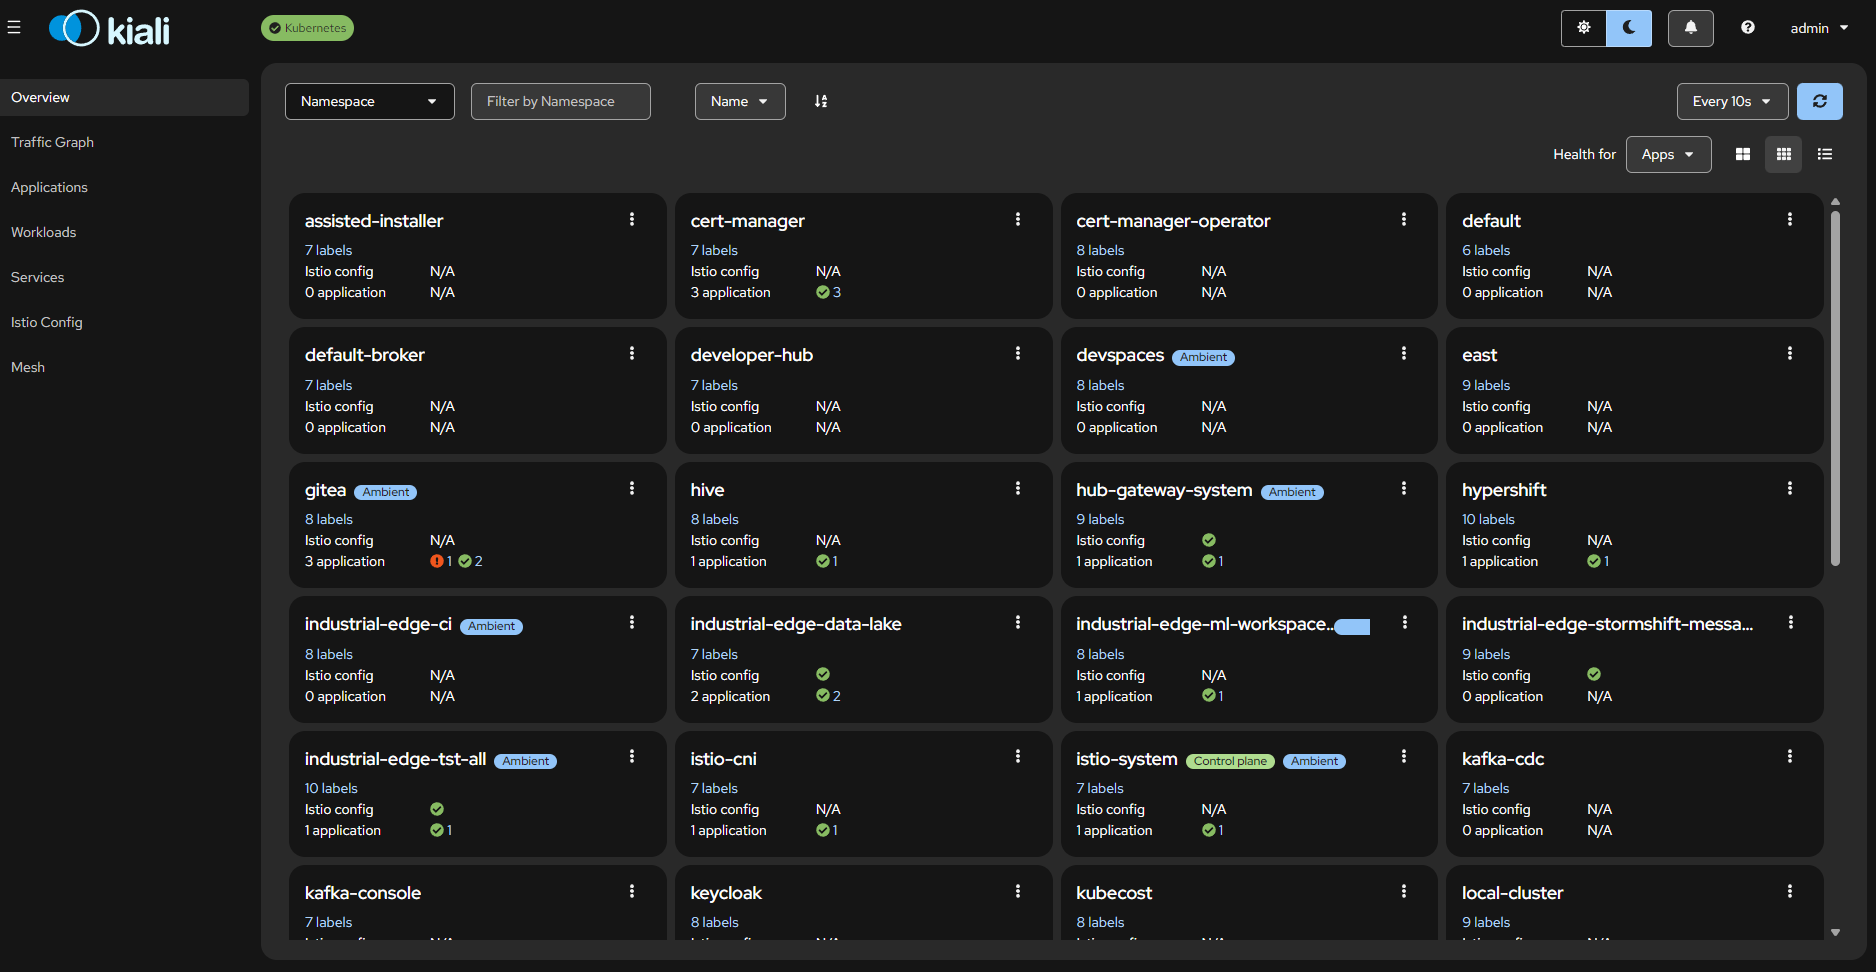
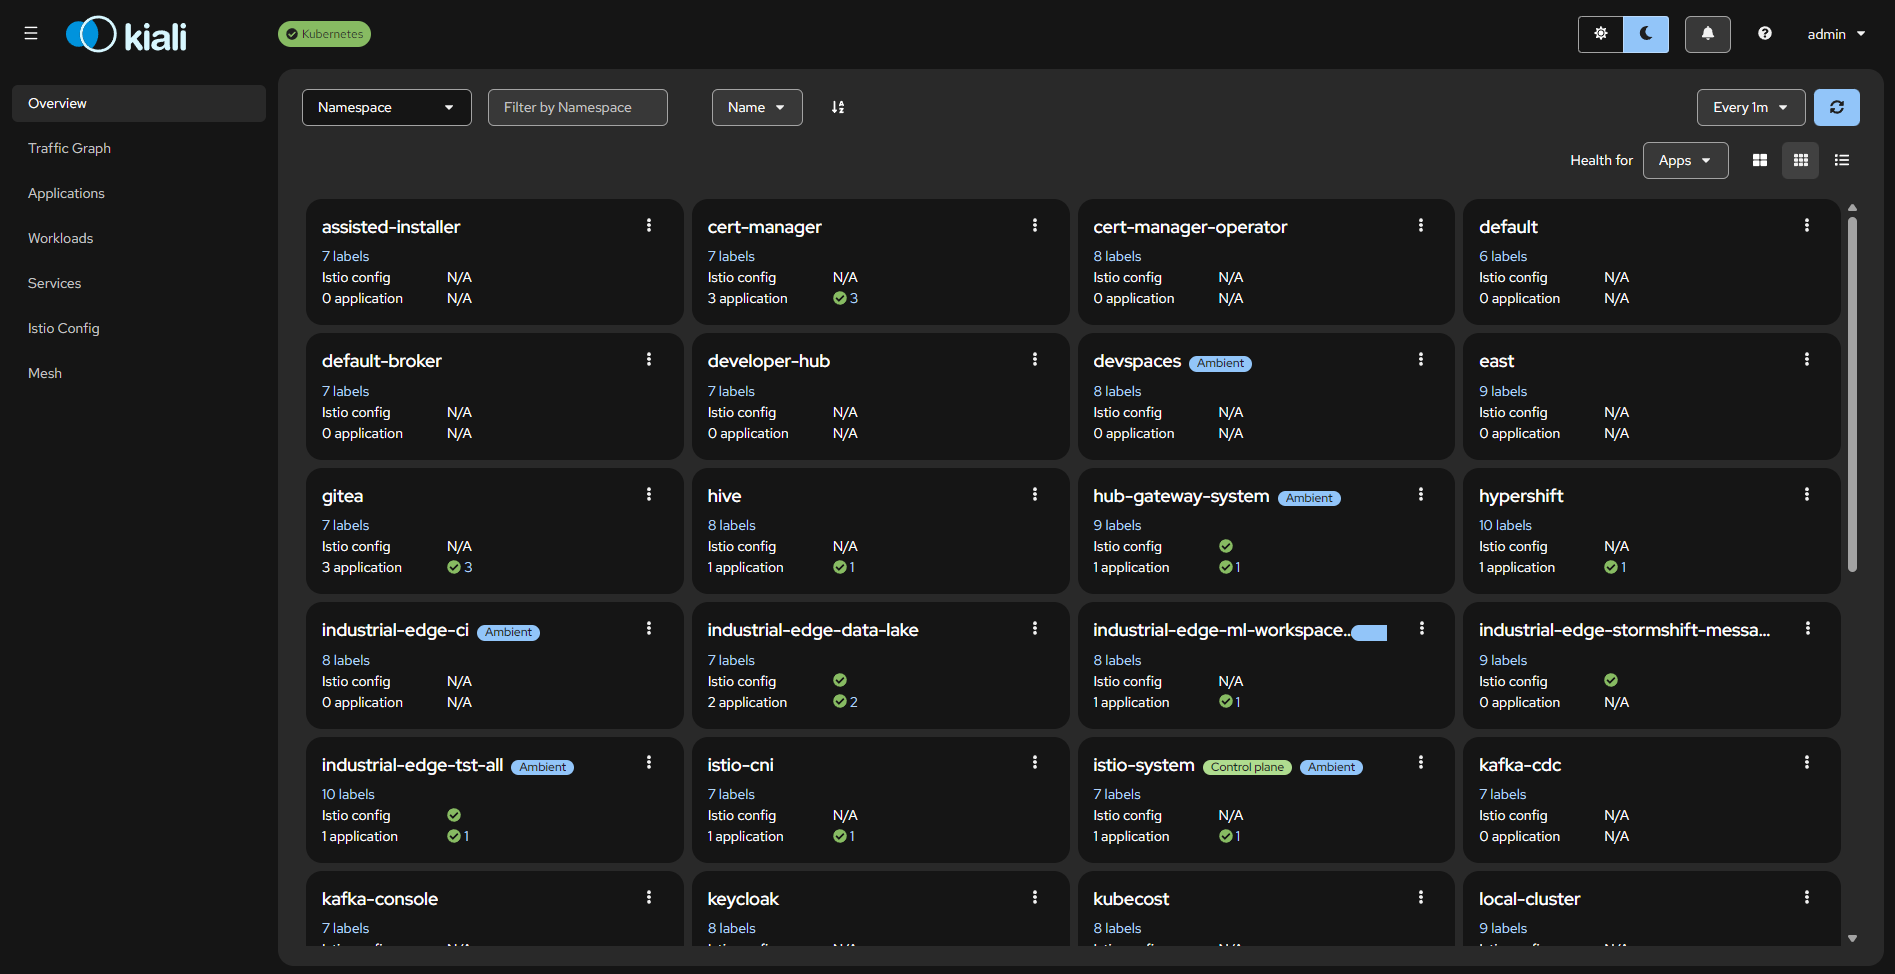
feat: RHDH catalog ConfigMaps, docs operator discovery, image zoom
Split Developer Hub app-config into catalog/auth ConfigMaps in Backstage CR,
add catalog-users ConfigMap and repo catalog/users.yaml for GitHub URLs.
Document operator discovery per product, Grafana extras, mobile-safe footer
notes in skill; ignore helm scratch YAML. Docs: click-to-zoom images,
reading path, dedupe Kafka screenshot from Service Interconnect.

diff --git a/docs/_includes/head_custom.html b/docs/_includes/head_custom.html
@@ -50,3 +50,62 @@ document.addEventListener('DOMContentLoaded', function() {
   content.insertAdjacentElement('afterend', toc);
 });
 </script>
+<script defer>
+document.addEventListener('DOMContentLoaded', function() {
+  var content = document.querySelector('.main-content');
+  if (!content) return;
+
+  var dlg = document.createElement('dialog');
+  dlg.className = 'doc-img-lightbox';
+  dlg.setAttribute('aria-label', 'Enlarged screenshot');
+  dlg.innerHTML =
+    '<button type="button" class="doc-img-lightbox-close" aria-label="Close">&times;</button>' +
+    '<img alt="" decoding="async">';
+  document.body.appendChild(dlg);
+
+  var lbImg = dlg.querySelector('img');
+  var closeBtn = dlg.querySelector('.doc-img-lightbox-close');
+
+  function openLb(src, alt) {
+    lbImg.src = src;
+    lbImg.alt = alt || 'Screenshot';
+    dlg.showModal();
+    document.body.style.overflow = 'hidden';
+  }
+
+  function closeLb() {
+    dlg.close();
+    document.body.style.overflow = '';
+    lbImg.removeAttribute('src');
+  }
+
+  closeBtn.addEventListener('click', closeLb);
+  dlg.addEventListener('click', function(e) {
+    if (e.target === dlg) closeLb();
+  });
+  document.addEventListener('keydown', function(e) {
+    if (e.key === 'Escape' && dlg.open) closeLb();
+  });
+
+  content.querySelectorAll('img').forEach(function(img) {
+    var src = img.currentSrc || img.src;
+    if (!src || src.indexOf('data:') === 0) return;
+    img.classList.add('doc-img-zoomable');
+    if (!img.title) img.title = 'Click to enlarge';
+    var altText = (img.getAttribute('alt') || '').trim();
+    img.setAttribute('aria-label', (altText ? altText + ' — ' : '') + 'Click to enlarge');
+    img.addEventListener('click', function(ev) {
+      ev.preventDefault();
+      openLb(img.currentSrc || img.src, img.alt);
+    });
+    img.addEventListener('keydown', function(ev) {
+      if (ev.key === 'Enter' || ev.key === ' ') {
+        ev.preventDefault();
+        openLb(img.currentSrc || img.src, img.alt);
+      }
+    });
+    img.tabIndex = 0;
+    img.setAttribute('role', 'button');
+  });
+});
+</script>

diff --git a/docs/products/index.md b/docs/products/index.md
@@ -7,7 +7,9 @@ has_children: true
 
 # Red Hat Products
 
-This platform composes multiple Red Hat operators and patterns. Use the child pages for installation notes, CRDs, and documentation links.
+This platform composes multiple Red Hat operators and patterns. Each child page answers three questions for operators who arrived via **[Getting Started](../getting-started.md)**: what ships here, **what signals tell an operator it has reconciled**, and **how workloads join inventory** (CRDs vs annotations vs explicit registrations).
+
+Keep **[Discover workloads consistently](../architecture.md#components-on-the-hub-vs-spokes)** in mind as context — namespaces rarely manage ACM fleets directly; charts declare APIs operators reconcile against Git.
 
 ## Overview
 
@@ -24,3 +26,27 @@ This platform composes multiple Red Hat operators and patterns. Use the child pa
 | [AMQ Streams](amq-streams.md) | Kafka for telemetry pipelines | `components/industrial-edge-*/` |
 | [Apache Camel / Camel K](camel-k.md) | Integrations (MQTT, S3, Kafka) | `components/camel-k/` |
 | [OpenShift Pipelines](pipelines.md) | Tekton CI/CD for Industrial Edge | `components/industrial-edge-pipelines/` |
+
+## Operator discovery — annotations & registrations at a glance
+
+Most visibility comes from **CRDs**, but namespaces carry mesh/policy hints when controllers reconcile selectively:
+
+| Product | Where workloads surface | Typical annotation / label / CR binding |
+| ------- | ------------------------- | ------------------------------------------ |
+| [ACM](acm.md) | Fleet hub inventory | **`ManagedCluster`**, **`Placement`** — spokes inherit ACM labels during import (no Git annotation magic). |
+| [Developer Hub](developer-hub.md) | Catalog / plugins | **`Backstage`** CR + `app-config-*` ConfigMaps; OCM reads **`ManagedCluster`** cluster-scope CRs (needs RBAC on SA). |
+| [ACS](acs.md) | Central clusters UI | **`SecuredCluster`** in each cluster's **`stackrox`** namespace + TLS Secrets from **init bundles**. |
+| [GitOps](openshift-gitops.md) | Argo CD Applications | **`Application`** / **`ApplicationSet`** — paths/branches define drift detection targets. |
+| [Service Mesh](service-mesh.md) | Ambient dataplane | Namespace **`istio.io/dataplane-mode: ambient`** (see **`components/namespaces`**); exceptions **`stackrox`**, **`gitea`**, **`industrial-edge-data-lake`**, … stay **off mesh**. |
+| [Connectivity Link](connectivity-link.md) | Gateway exposure | Gateway API **`Gateway`** / **`HTTPRoute`** CRDs Kuadrant/DNS controllers reconcile (explicit refs). |
+| [OpenShift AI](openshift-ai.md) | DS pipelines / serving | **`DataScienceCluster`** operator provisioning — namespaces created/managed by operator CRs. |
+| [AMQ Streams](amq-streams.md) | Kafka Console UI | This repo: **`Console`** CR (`kafkaClusters[].namespace` + bootstrap URL). Strimzi **`Kafka`** CRs live in those namespaces. |
+| [Camel K](camel-k.md) | Integrations | **`IntegrationPlatform`** (per-operator scope) selects Camel runtime profile for that namespace set. |
+| [Pipelines](pipelines.md) | Tekton controllers | **`TektonConfig`** cluster-wide / operator-managed — namespaces enabled by operator policy. |
+| [Service Interconnect](../service-interconnect.md) | Cross-cluster Services | **`Site`**, **`Listener`**, **`Connector`** Skupper CRs — **not** workload Deployment annotations. |
+
+Details and YAML snippets live on each product page under **Operator discovery**.
+
+---
+
+**Next:** pick your deployment lane — mesh labels ([Service Mesh](service-mesh.md)), fleet placement ([ACM](acm.md)), or Kafka plumbing ([AMQ Streams](amq-streams.md)).

diff --git a/docs/service-interconnect.md b/docs/service-interconnect.md
@@ -12,10 +12,7 @@ nav_order: 12
 
 **Red Hat Service Interconnect** creates a Virtual Application Network (VAN) that connects services across clusters without requiring VPN tunnels, direct network routes, or firewall changes. In this platform, Skupper bridges spoke Industrial Edge services and Prometheus metrics to the hub for centralized observability.
 
-![Kafka Console via Skupper]({{ site.baseurl }}/assets/images/product-kafka-console-amq-streams.png)
-{: .mb-4 }
-*Kafka Console on the hub accessing 5 clusters via Skupper VAN — evidence of Service Interconnect in action.*
-{: .fs-2 .text-grey-dk-000 }
+The diagram below shows **listeners and connectors** only. For Kafka Console screenshots and broker DNS details, see **[AMQ Streams](products/amq-streams.md)** and **[Observability — Kafka Console](observability.md#kafka-console-hub)** (same topic, split so Skupper stays focused on VAN mechanics).
 
 ## Architecture
 
@@ -130,18 +127,11 @@ sequenceDiagram
 
 The `AccessToken` is created manually via `ManagedClusterAction` since it contains sensitive claim data that should not be stored in Git.
 
-## Kafka Console and broker DNS
+## Kafka bootstrap over Skupper
 
-Skupper forwards **TCP** to Kafka bootstrap (`:9092`) correctly. The Kafka client then receives **broker metadata** with spoke-internal hostnames (for example `dev-cluster-broker-0.dev-cluster-kafka-brokers.industrial-edge-tst-all.svc`), which do not resolve on the hub.
+Skupper forwards **TCP** to Kafka bootstrap (`:9092`). Clients then receive broker metadata with spoke-internal DNS names that **do not resolve on the hub** until you add hub-side DNS mappings (`EndpointSlice`) and matching Strimzi **advertisedHost** values on the spokes.
 
-**Resolution pattern:**
-
-1. **Spokes** — set per-broker `advertisedHost` in Strimzi with a unique suffix per cluster (`dev-cluster-broker-0-east`, `dev-cluster-broker-0-west`, …).
-2. **Hub** — `components/kafka-console/templates/broker-dns.yaml` creates headless Services and **`EndpointSlice`** resources mapping those hostnames to Skupper listener ClusterIPs (Helm `lookup` per broker IP — avoid nested lookups in slice `addresses`).
-
-Argo CD excludes **`Endpoints`** from sync; EndpointSlice is the supported GitOps pattern for broker DNS on the hub.
-
-After deploying Skupper listeners, sync the `kafka-console` application so EndpointSlices are populated. See [Observability](observability.md#kafka-console-hub).
+That fix is documented once (step-by-step and screenshots) under **[Observability → Kafka Console](observability.md#kafka-console-hub)** — keep Skupper docs limited to listeners/connectors above.
 
 ## Spoke gateway aggregation
 
@@ -168,6 +158,12 @@ flowchart LR
 ## Operator deployment
 
 The `skupper-operator` subscription is deployed to spokes via the `operators` component in the ApplicationSet `valuesObject`. This ensures the CRDs are available before Skupper CRs are applied.
+
+## Operator discovery
+
+Skupper controllers reconcile **`Site`**, **`AccessGrant`**, **`AccessToken`**, **`Link`**, **`Listener`**, and **`Connector`** CRs (`skupper.io` / Skupper v2 APIs). Spokes expose workloads by targeting **`spec.routingKey`** / connector selectors — **Kubernetes Deployments do not need Skupper annotations** for discovery (CR linking wires listeners ↔ connectors).
+
+Tokens (`AccessToken`) bridge clusters via HTTPS grant servers — rotate manually when recycling demo clusters.
 
 ## References
 

diff --git a/docs/observability.md b/docs/observability.md
@@ -6,7 +6,7 @@ nav_order: 7
 
 # Observability
 
-Observability ties together **metrics**, **logs**, **traces**, and **mesh visualization** so operators can compare east and west Industrial Edge clusters from the hub.
+Observability ties together **metrics**, **logs**, **traces**, and **mesh visualization** so operators can compare east and west Industrial Edge clusters from the hub. It sits mid-flight between **[architecture](architecture.md)** (why telemetry crosses Skupper) and **[Industrial Edge](industrial-edge.md)** (what applications emit). **Screenshots** below open full-screen when clicked — useful for reading dense Grafana legends.
 
 ![Grafana – East-West Traffic Dashboard]({{ site.baseurl }}/assets/images/product-grafana-observability.png)
 {: .mb-4 }
@@ -16,6 +16,16 @@ Observability ties together **metrics**, **logs**, **traces**, and **mesh visual
 ![Grafana – Multi-Cluster Istio Metrics]({{ site.baseurl }}/assets/images/product-grafana-observability-2.png)
 {: .mb-4 }
 *Multi-Cluster Istio Metrics — L4 ztunnel throughput and cross-cluster error rates via Service Interconnect.*
+{: .fs-2 .text-grey-dk-000 }
+
+![Grafana – Fleet KPI panels]({{ site.baseurl }}/assets/images/product-grafana-observability-3.png)
+{: .mb-4 }
+*Additional Grafana fleet KPI panels — Kafka and mesh signals aggregated across clusters.*
+{: .fs-2 .text-grey-dk-000 }
+
+![Grafana – Extended dashboards]({{ site.baseurl }}/assets/images/product-grafana-observability-4.png)
+{: .mb-4 }
+*Extended observability dashboard views — drill-down metrics aligned with hub Grafana dashboards.*
 {: .fs-2 .text-grey-dk-000 }
 
 ## Observability architecture
@@ -211,3 +221,7 @@ Re-sync the `kafka-console` Argo CD application after Skupper listeners are heal
 - [Kiali on OSSM 3.2](https://docs.redhat.com/en/documentation/red_hat_openshift_service_mesh/3.2/html/observability/kiali-operator-provided-by-red-hat)
 
 Charts: `components/observability`, `components/grafana-dashboards`, `components/spoke-dashboards`, `components/kiali`, `components/kafka-console`, `components/opentelemetry`, `components/istio-monitoring`, `components/service-interconnect`, `components/spoke-interconnect`.
+
+---
+
+**Next:** tighten workload telemetry wiring from **[OpenShift Service Mesh](products/service-mesh.md)** (ztunnel prerequisites), then revisit **[Service Interconnect](service-interconnect.md)** when Prometheus crosses clusters via Skupper.

diff --git a/docs/index.md b/docs/index.md
@@ -6,7 +6,9 @@ nav_order: 1
 
 # Platform Hub-Spoke Config
 
-**Multi-cluster GitOps platform using Red Hat products** -- a hub-spoke topology that centralizes governance with Red Hat Advanced Cluster Management (ACM), delivers Industrial Edge workloads on regional spokes, uses OpenShift Service Mesh in ambient mode for east-west connectivity, layers Connectivity Link (Kuadrant) for API-aware ingress policy, exposes Grafana dashboards for cross-cluster visibility, and integrates Advanced Cluster Security (ACS) for vulnerability and runtime protection.
+**Multi-cluster GitOps platform using Red Hat products** — a hub-spoke topology that centralizes governance with Red Hat Advanced Cluster Management (ACM), delivers Industrial Edge workloads on regional spokes, uses OpenShift Service Mesh in ambient mode for east-west connectivity, layers Connectivity Link (Kuadrant) for API-aware ingress policy, exposes Grafana dashboards for cross-cluster visibility, and integrates Advanced Cluster Security (ACS) for vulnerability and runtime protection.
+
+Read **concept → mechanics → operations**: start with [Architecture](architecture.md), install via [Getting Started](getting-started.md) or [Deploy with ACM and GitOps](deploy-acm-gitops.md), then use platform chapters (**Hub Gateway**, **Observability**, **Industrial Edge**) before drilling into individual **[Red Hat Products](products/)**.
 
 ## Overview
 
@@ -76,6 +78,17 @@ flowchart TB
 | Industrial Edge | [Industrial Edge](industrial-edge.md) |
 | Service Interconnect | [Service Interconnect](service-interconnect.md) |
 | Branch strategy | [Branch Strategy](branch-strategy.md) |
+
+## Recommended reading order
+
+1. [Architecture](architecture.md) — mental model of hub, spokes, GitOps, and observability pipes  
+2. [Getting Started](getting-started.md) or [Deploy with ACM and GitOps](deploy-acm-gitops.md) — bring clusters under GitOps  
+3. [Hub Gateway](hub-gateway.md) — weighted ingress and circuit breaking  
+4. [Observability](observability.md) — Grafana, Kiali, Kafka Console  
+5. [Industrial Edge](industrial-edge.md) — factory data pipeline pattern  
+6. [Red Hat Products](products/index.md) — operator specifics (discovery annotations live here)
+
+Screenshots support **click-to-zoom** in full-screen modal — handy after deploying dashboards.
 
 ## Red Hat products used
 

diff --git a/.cursor/skills/github-pages-docs/SKILL.md b/.cursor/skills/github-pages-docs/SKILL.md
@@ -78,7 +78,6 @@ docs/
 │   ├── openshift-gitops.md      # OpenShift GitOps (ArgoCD)
 │   ├── pipelines.md             # OpenShift Pipelines (Tekton)
 │   ├── service-mesh.md          # OSSM3 3.2 GA; hero image = Kiali
-│   └── connectivity-link.md     # RHCL; hub + hub-gateway + spoke screenshots
 └── community/
     ├── index.md                 # Community & Third-Party (has_children: true, nav_order: 6)
     ├── kubecost.md              # Kubecost cost monitoring (Red Hat certified)
@@ -185,16 +184,21 @@ Always reference with `{{ site.baseurl }}` prefix:
 {: .fs-2 .text-grey-dk-000 }
 ```
 
+**Click-to-zoom:** `_includes/head_custom.html` attaches a `<dialog>` lightbox to `.main-content img` (cursor `zoom-in`, keyboard activatable). Keep meaningful `alt` text — it feeds the modal.
+
 | File | Used on |
 | ---- | ------- |
 | `product-kiali-service-mesh.png` | `products/service-mesh.md` (hero) |
-| `product-grafana-observability.png` | `products/service-mesh.md`, `observability.md` |
+| `product-grafana-observability.png` … `-4.png` | `observability.md` (Grafana gallery — avoid duplicating on `service-mesh.md`) |
 | `connectivity-link-hub.png` | `products/connectivity-link.md` (intro) |
 | `connectivity-link-hub-gateway.png` | `products/connectivity-link.md` (Hub gateway) |
 | `connectivity-link-spoke.png` | `products/connectivity-link.md` (Spoke) |
 | `connectivity-link-spoke-gateway.png` | `products/connectivity-link.md` (Spoke gateway) |
 | `ACS.png` | `products/acs.md` |
+| `product-kafka-console-amq-streams.png` (+ `-2`) | `products/amq-streams.md` (Kafka Console — **not** `service-interconnect.md`; Skupper page links there) |
 | `ACM.png`, `product-argocd-openshift-gitops.png`, `product-developer-hub.png`, … | respective product pages |
+
+**Operator discovery:** Each `docs/products/*.md` page includes an **Operator discovery** subsection; `products/index.md` has a summary table (annotations vs CRDs).
 
 After adding images, verify HTTP 200 on GitHub Pages:  
 `https://maximilianopizarro.github.io/platform-hub-spoke-config/assets/images/<file>.png`
@@ -204,6 +208,7 @@ After adding images, verify HTTP 200 on GitHub Pages:
 When documenting platform-specific topics, include these sections where relevant:
 
 - **What it does in this architecture** — one paragraph connecting the product to the hub-spoke pattern
+- **Operator discovery** — how controllers find workloads (CRDs vs namespace labels vs explicit registrations); see `products/index.md` table for cross-links
 - **How it's deployed** — GitOps-driven (ArgoCD Application), operator channel, namespace
 - **Key resources created** — CRDs, ConfigMaps, Routes
 - **Mermaid diagram** — architecture or flow diagrams using fenced `mermaid` blocks. Use `flowchart TB` or `flowchart LR` for architecture, `sequenceDiagram` for flows

diff --git a/docs/products/service-mesh.md b/docs/products/service-mesh.md
@@ -96,12 +96,13 @@ Namespaces receive `istio.io/dataplane-mode: ambient` via `components/namespaces
 | `gitea` | **off mesh** | Gitea chart init → PostgreSQL via ClusterIP |
 | `industrial-edge-data-lake` | **off mesh** | Data lake / MinIO patterns |
 
+## Operator discovery
+
+The Sail/Istio operator watches **`Istio`**, **`IstioCNI`**, **`ZTunnel`**, and **`Telemetry`** cluster/network namespaces (`istio-system`, `istio-cni`, `ztunnel`). Application workloads are enrolled **implicitly** by labeling namespaces **`istio.io/dataplane-mode: ambient`** (set via **`components/namespaces`**). Optionally declare waypoint **`Gateway`** resources where HTTP policy/L7 metrics matter — controllers reconcile those refs regardless of Deployment annotations.
+
 ## Metrics and dashboards
 
-![Grafana – East-West Traffic & Service Mesh]({{ site.baseurl }}/assets/images/product-grafana-observability.png)
-{: .mb-4 }
-*Service Mesh L4 metrics in the East-West Traffic Grafana dashboard.*
-{: .fs-2 .text-grey-dk-000 }
+**Screenshots:** the Grafana gallery lives on **[Observability](../observability.md)** (four panels with click-to-zoom). Below is the metric cheat-sheet — keep Grafana UX details there to avoid duplicating captions here.
 
 | Metric family | Source | When available |
 | ------------- | ------ | -------------- |

diff --git a/docs/products/acs.md b/docs/products/acs.md
@@ -34,6 +34,14 @@ roxctl -e central.stackrox:443 --password "$ROX_ADMIN_PASSWORD" --insecure-skip-
 
 Cluster names: `hub`, `east`, `west`. The `rhacs-operator` subscription on spokes is deployed via `openshift-operators` (ApplicationSet `subscriptions` list).
 
+## Operator discovery
+
+**RHACS controller manager** watches **`SecuredCluster`** CRs inside **`stackrox`** (platform.stackrox.io) plus **`Central`** objects where Central installs live.
+
+Admission/collector assets reconcile once **`collector-tls`**, **`sensor-tls`**, and **`admission-control-tls`** Secrets exist — YAML manifests originate from **`roxctl central init-bundles generate`** output keyed by cluster label (**Deployments do not declare ACS enrollment annotations**).
+
+Avoid **`istio.io/dataplane-mode: ambient`** on **`stackrox`** — ambient interception breaks Central ↔ PostgreSQL TLS (see topology table above).
+
 ## Capabilities used
 
 - **CVE scanning** for images referenced by Industrial Edge and platform workloads.

diff --git a/docs/products/acm.md b/docs/products/acm.md
@@ -34,6 +34,12 @@ Typical objects you will encounter:
 
 Install specifics live in the `acm-operator` and `acm-hub-spoke` component charts in `components/`.
 
+## Operator discovery
+
+ACM controllers reconcile **`ManagedCluster`**, **`ManagedClusterSet`**, **`Placement`**, **`PlacementDecision`**, **`ManifestWork`**, and **`GitOpsCluster`** APIs directly against etcd — **`Deployments do not carry ACM annotations`** for fleet enrollment.
+
+Imported spokes inherit **`ManagedCluster`** metadata (`labels.annotations`), **`ManagedClusterSet` bindings**, and feature-addon statuses driven by **`ManagedClusterAddon`** controllers — inspect hub namespaces **`open-cluster-management*`**, **`openshift-gitops`**, and cluster-scope **`managedcluster`** objects (`oc get managedcluster`) rather than hunting workload namespaces.
+
 ## Documentation
 
 - [Red Hat ACM 2.16 documentation](https://docs.redhat.com/en/documentation/red_hat_advanced_cluster_management_for_kubernetes/2.16)

diff --git a/docs/products/amq-streams.md b/docs/products/amq-streams.md
@@ -31,6 +31,12 @@ Red Hat **AMQ Streams** is the enterprise distribution of **Apache Kafka** on Op
 
 Charts: `components/industrial-edge-tst`, `components/industrial-edge-stormshift`, `components/industrial-edge-data-lake`.
 
+## Operator discovery
+
+**Strimzi Cluster Operator** watches **`Kafka`**, **`KafkaNodePool`**, **`KafkaTopic`**, … wherever CRDs land — namespaces (`industrial-edge-tst-all`, `industrial-edge-stormshift-messaging`, `industrial-edge-data-lake`) simply host those manifests.
+
+The hub **Kafka Console** ships via **`Console`** CR (`console.streamshub.github.com/v1alpha1` in **`components/kafka-console/templates/all.yaml`**) with **`spec.kafkaClusters[]`** entries naming namespaces **plus bootstrap URLs** — discovery is **explicit GitOps**, not an annotation on random Deployments. Remote clusters still require **`metricsSources`** entries when Prometheus differs per spoke.
+
 ## Metrics (Grafana)
 
 Kafka brokers expose JMX metrics via Strimzi's `jmxPrometheusExporter` ConfigMap. Scraping requires:

diff --git a/docs/products/connectivity-link.md b/docs/products/connectivity-link.md
@@ -38,6 +38,12 @@ nav_order: 6
 *Spoke gateway aggregating Industrial Edge services for cross-cluster exposure.*
 {: .fs-2 .text-grey-dk-000 }
 
+## Operator discovery
+
+Connectivity Link / Kuadrant controllers reconcile **Gateway API** **`Gateway`**, **`HTTPRoute`**, **`GatewayClass`**, plus Kuadrant **`DNSPolicy`**, **`TLSPolicy`**, **`AuthPolicy`**, **`RateLimitPolicy`** pairs explicitly referenced in manifests — controllers watch clusters via operator subscriptions (`components/rhcl-operator`), **not** via blanket Deployment annotations.
+
+Typical hub/spoke wiring attaches **`HTTPRoute`** `spec.parentRefs` to Gateway objects (`hub-gateway-system`, …); verify reconciliation by inspecting **`Gateway`** status conditions rather than Pod labels alone.
+
 ## Links
 
 - [Connectivity Link documentation](https://docs.redhat.com/en/documentation/red_hat_connectivity_link/)

diff --git a/docs/products/developer-hub.md b/docs/products/developer-hub.md
@@ -66,6 +66,12 @@ The `developer-hub` component chart provisions:
 - ServiceAccount with OCM ClusterRole
 - Route: `developer-hub.<clusterDomain>`
 
+## Operator discovery
+
+The RHDH operator watches **`Backstage`** CRs (`rhdh.redhat.com/v1alpha5`) and referenced **`ConfigMaps`** (`spec.application.appConfig.configMaps`). **Workload Pods do not register plugins automatically.** Dynamic plugins ship inside the operator-managed Deployment template — Catalog **`locations`** come solely from merged **`app-config.yaml`** snippets (`catalog.providers.ocm`, `catalog.import.locations`, etc.).
+
+The **OCM plugin** reads cluster-scope **`ManagedCluster`** APIs via ServiceAccount RBAC (`backstage-ocm-plugin` ClusterRole). Successful reconciliation correlates with `ManagedCluster` CRDs imported via ACM — nothing analogous exists per-namespace annotations beyond **`catalog`** ConfigMaps.
+
 ## Links
 
 - [Red Hat Developer Hub product documentation](https://docs.redhat.com/en/documentation/red_hat_developer_hub/)